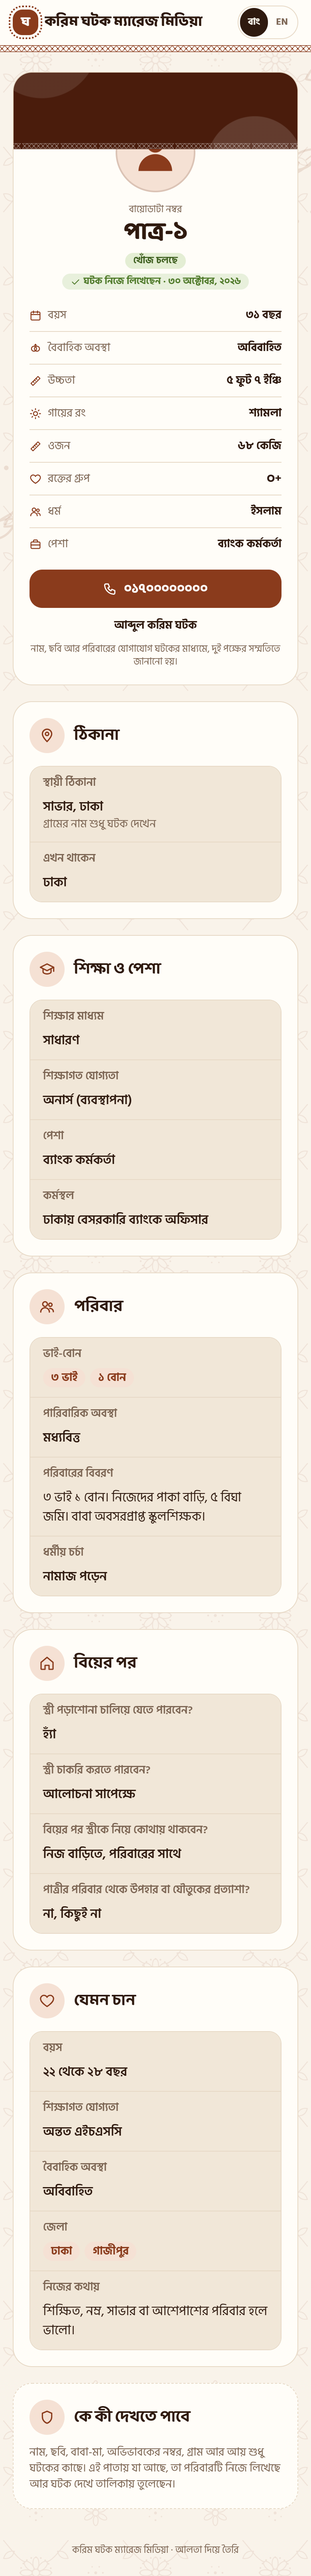
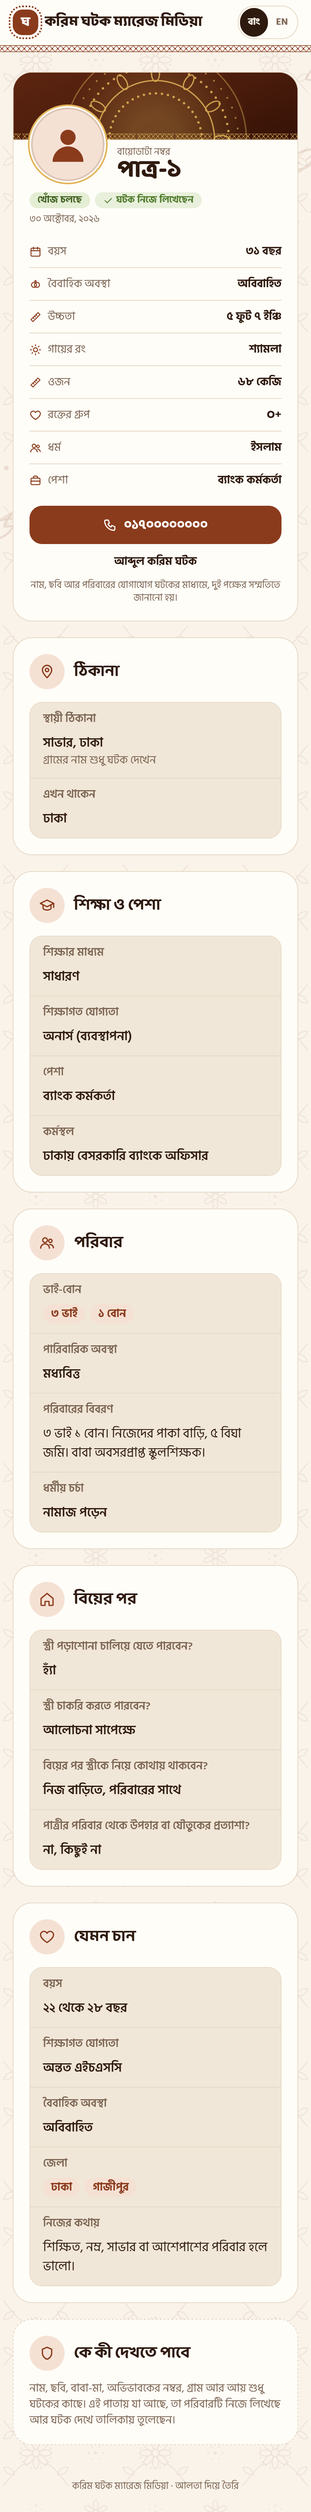
style: the biodata card's head, as chosen
The picture hangs over the left end of the head with the number beside
it, the status and the ghotok's check on one line and the date under them,
so nothing wraps in either language. The head itself is deep henna shading
to the accent with a gold floor-alpona rising from its foot
(public/henna/alpona.svg), a gold glow where it meets the card, and the
lattice band in gold; the picture wears a gold ring. A --gold token joins
the scheme. Screenshots refreshed.

diff --git a/components/biodata.tsx b/components/biodata.tsx
@@ -51,9 +51,9 @@ export function afterMarriageRows(b: Pick<FamilyView, "kind" | "afterStudy" | "a
   return rows;
 }
 
-/** The trust line under the number: checked by the ghotok on a date (a family's entry), or written by the ghotok (their own). */
-export const trustLine = (b: Pick<FamilyView, "approvedAt" | "createdAt">, t: T): string =>
-  b.approvedAt ? t.t("bv.verified", { date: t.date(b.approvedAt) }) : t.t("bv.ghotokWrote", { date: t.date(b.createdAt) });
+/** The trust mark under the number: checked by the ghotok on a date (a family's entry), or written by the ghotok (their own). */
+export const trustMark = (b: Pick<FamilyView, "approvedAt" | "createdAt">, t: T): { label: string; date: string } =>
+  b.approvedAt ? { label: t.t("bv.checked"), date: t.date(b.approvedAt) } : { label: t.t("bv.wrote"), date: t.date(b.createdAt) };
 
 /** Beside the family's biodata form on a wide screen: how to fill it in, who sees what, and the ghotok to call. */
 export function BiodataFormAside({ site, t }: { site: PublicSite | null; t: T }) {
@@ -112,6 +112,7 @@ export function FamilyBiodata({ b, t, aside }: { b: FamilyView; t: T; aside?: Re
   const districts = (b.expectDistricts ?? "").split(/[,،]/).map((s) => s.trim()).filter(Boolean);
   const after = afterMarriageRows(b, t);
   const age = expectedAge(b, t);
+  const trust = trustMark(b, t);
 
   const address: Row[] = [
     { label: t.t("bv.permanentAddress"), value: <>{[b.upazila, b.district].filter(Boolean).join(", ")}<small className="block text-sm font-normal text-muted">{t.t("bv.villageHidden")}</small></> },
@@ -140,17 +141,21 @@ export function FamilyBiodata({ b, t, aside }: { b: FamilyView; t: T; aside?: Re
   return (
     <div className="flex flex-col gap-5 lg:grid lg:grid-cols-[20rem_minmax(0,1fr)] lg:items-start lg:gap-6">
       <aside className="overflow-hidden rounded-3xl border border-line bg-surface lg:sticky lg:top-24">
-        <div aria-hidden className="biodata-head h-24" />
-        <div className="-mt-12 flex justify-center">
-          <span className="rounded-full border-4 border-surface bg-surface"><Avatar kind={b.kind} className="size-24" /></span>
-        </div>
-        <div className="flex flex-col items-center gap-1.5 px-5 pt-3 text-center">
-          <p className="text-xs text-muted">{t.t("bv.number")}</p>
-          <p className="font-display text-3xl font-extrabold leading-none">{t.biodataNo(b.kind, b.code)}</p>
-          <div className="mt-1 flex flex-wrap justify-center gap-1.5">
-            <ProfileBadge status={b.status} />
-            <span className="inline-flex items-center gap-1 rounded-full bg-pos-soft px-2.5 py-0.5 text-xs font-bold text-pos"><Icon name="check" size={13} />{trustLine(b, t)}</span>
+        <div aria-hidden className="biodata-head h-21" />
+        {/* the picture hangs over the head's left end, the number beside it; `relative` keeps it above the head's pattern */}
+        <div className="flex items-end gap-3.5 px-5">
+          <span className="relative -mt-11 shrink-0 rounded-full border-4 border-surface bg-surface ring-2 ring-gold"><Avatar kind={b.kind} className="size-22" /></span>
+          <div className="min-w-0 pt-2">
+            <p className="text-xs text-muted">{t.t("bv.number")}</p>
+            <p className="truncate font-display text-3xl font-extrabold leading-none">{t.biodataNo(b.kind, b.code)}</p>
           </div>
+        </div>
+        <div className="flex flex-col gap-1.5 px-5 pt-3">
+          <div className="flex flex-wrap items-center gap-1.5">
+            <ProfileBadge status={b.status} />
+            <span className="inline-flex items-center gap-1 rounded-full bg-pos-soft px-2.5 py-0.5 text-xs font-bold text-pos"><Icon name="check" size={13} />{trust.label}</span>
+          </div>
+          <p className="text-xs text-muted">{trust.date}</p>
         </div>
         <dl className="flex flex-col divide-y divide-line px-5 pt-3 text-sm">
           {facts.filter((f) => f.value).map(({ icon, label, value }) => (

diff --git a/app/globals.css b/app/globals.css
@@ -35,6 +35,8 @@
   --panel: #4a1c0c;
   --on-panel: #ffffff;
   --panel-soft: #f5e1d4;
+  /* zari gold, for the ornaments on a deep ground; the same in both schemes */
+  --gold: #e3b55a;
 }
 
 /* Dark follows the phone, unless a theme was picked in settings: data-theme on <html>, see lib/theme.ts. */
@@ -126,6 +128,7 @@
   --color-panel: var(--panel);
   --color-on-panel: var(--on-panel);
   --color-panel-soft: var(--panel-soft);
+  --color-gold: var(--gold);
   --color-mango: var(--mango);
   --color-mango-ink: var(--mango-ink);
   --color-mint: var(--mint);
@@ -227,14 +230,24 @@ body::before {
   bottom: auto;
 }
 
-/* The coloured head of a family's biodata card: deep henna, two faint discs, the lattice band along its foot in the
-   panel's own text colour. The picture hangs half over it (components/biodata.tsx). */
+/* The head of a family's biodata card: deep henna shading to the accent, a gold floor-alpona rising from its foot
+   (public/henna/alpona.svg, centred on the card's foot so the upper half shows), a gold glow where it meets the card,
+   and the lattice band along the foot in gold. The picture hangs over its left end (components/biodata.tsx). */
 .biodata-head {
   position: relative;
   background-color: var(--panel);
   background-image:
-    radial-gradient(circle at 85% 120%, color-mix(in oklab, var(--on-panel) 14%, transparent) 0 60px, transparent 61px),
-    radial-gradient(circle at 10% -40%, color-mix(in oklab, var(--on-panel) 10%, transparent) 0 70px, transparent 71px);
+    radial-gradient(circle at 50% 100%, color-mix(in oklab, var(--gold) 28%, transparent) 0 30px, transparent 120px),
+    linear-gradient(160deg, color-mix(in oklab, var(--panel) 70%, var(--primary)) 0%, var(--panel) 55%, color-mix(in oklab, var(--panel) 80%, black) 100%);
+}
+.biodata-head::before {
+  content: "";
+  position: absolute;
+  inset: 0;
+  pointer-events: none;
+  background: var(--gold);
+  opacity: 0.85;
+  mask: url("/henna/alpona.svg") no-repeat center bottom -120px / 240px 240px;
 }
 .biodata-head::after {
   content: "";
@@ -243,8 +256,8 @@ body::before {
   bottom: 0;
   height: 8px;
   pointer-events: none;
-  background: var(--on-panel);
-  opacity: 0.45;
+  background: var(--gold);
+  opacity: 0.8;
   mask: url("/henna/band.svg") repeat-x center / 48px 8px;
 }
 

diff --git a/lib/i18n/dict.ts b/lib/i18n/dict.ts
@@ -250,8 +250,8 @@ export const bn = {
   "facts.expectAgeMin": "বয়স {n} বা বেশি",
   "facts.expectAgeMax": "বয়স {n} পর্যন্ত",
   "facts.expectEdu": "অন্তত {x}",
-  "bv.verified": "ঘটক যাচাই করে তুলেছেন · {date}",
-  "bv.ghotokWrote": "ঘটক নিজে লিখেছেন · {date}",
+  "bv.checked": "ঘটক যাচাই করেছেন",
+  "bv.wrote": "ঘটক নিজে লিখেছেন",
 
   // family home
   "me.title": "আমার পাতা",
@@ -997,8 +997,8 @@ export const en: Record<Key, string> = {
   "facts.expectAgeMin": "Age {n} or more",
   "facts.expectAgeMax": "Age up to {n}",
   "facts.expectEdu": "At least {x}",
-  "bv.verified": "Checked and listed by the ghotok · {date}",
-  "bv.ghotokWrote": "Written by the ghotok · {date}",
+  "bv.checked": "Checked by the ghotok",
+  "bv.wrote": "Written by the ghotok",
 
   "me.title": "My page",
   "me.greeting": "Assalamu alaikum,",
